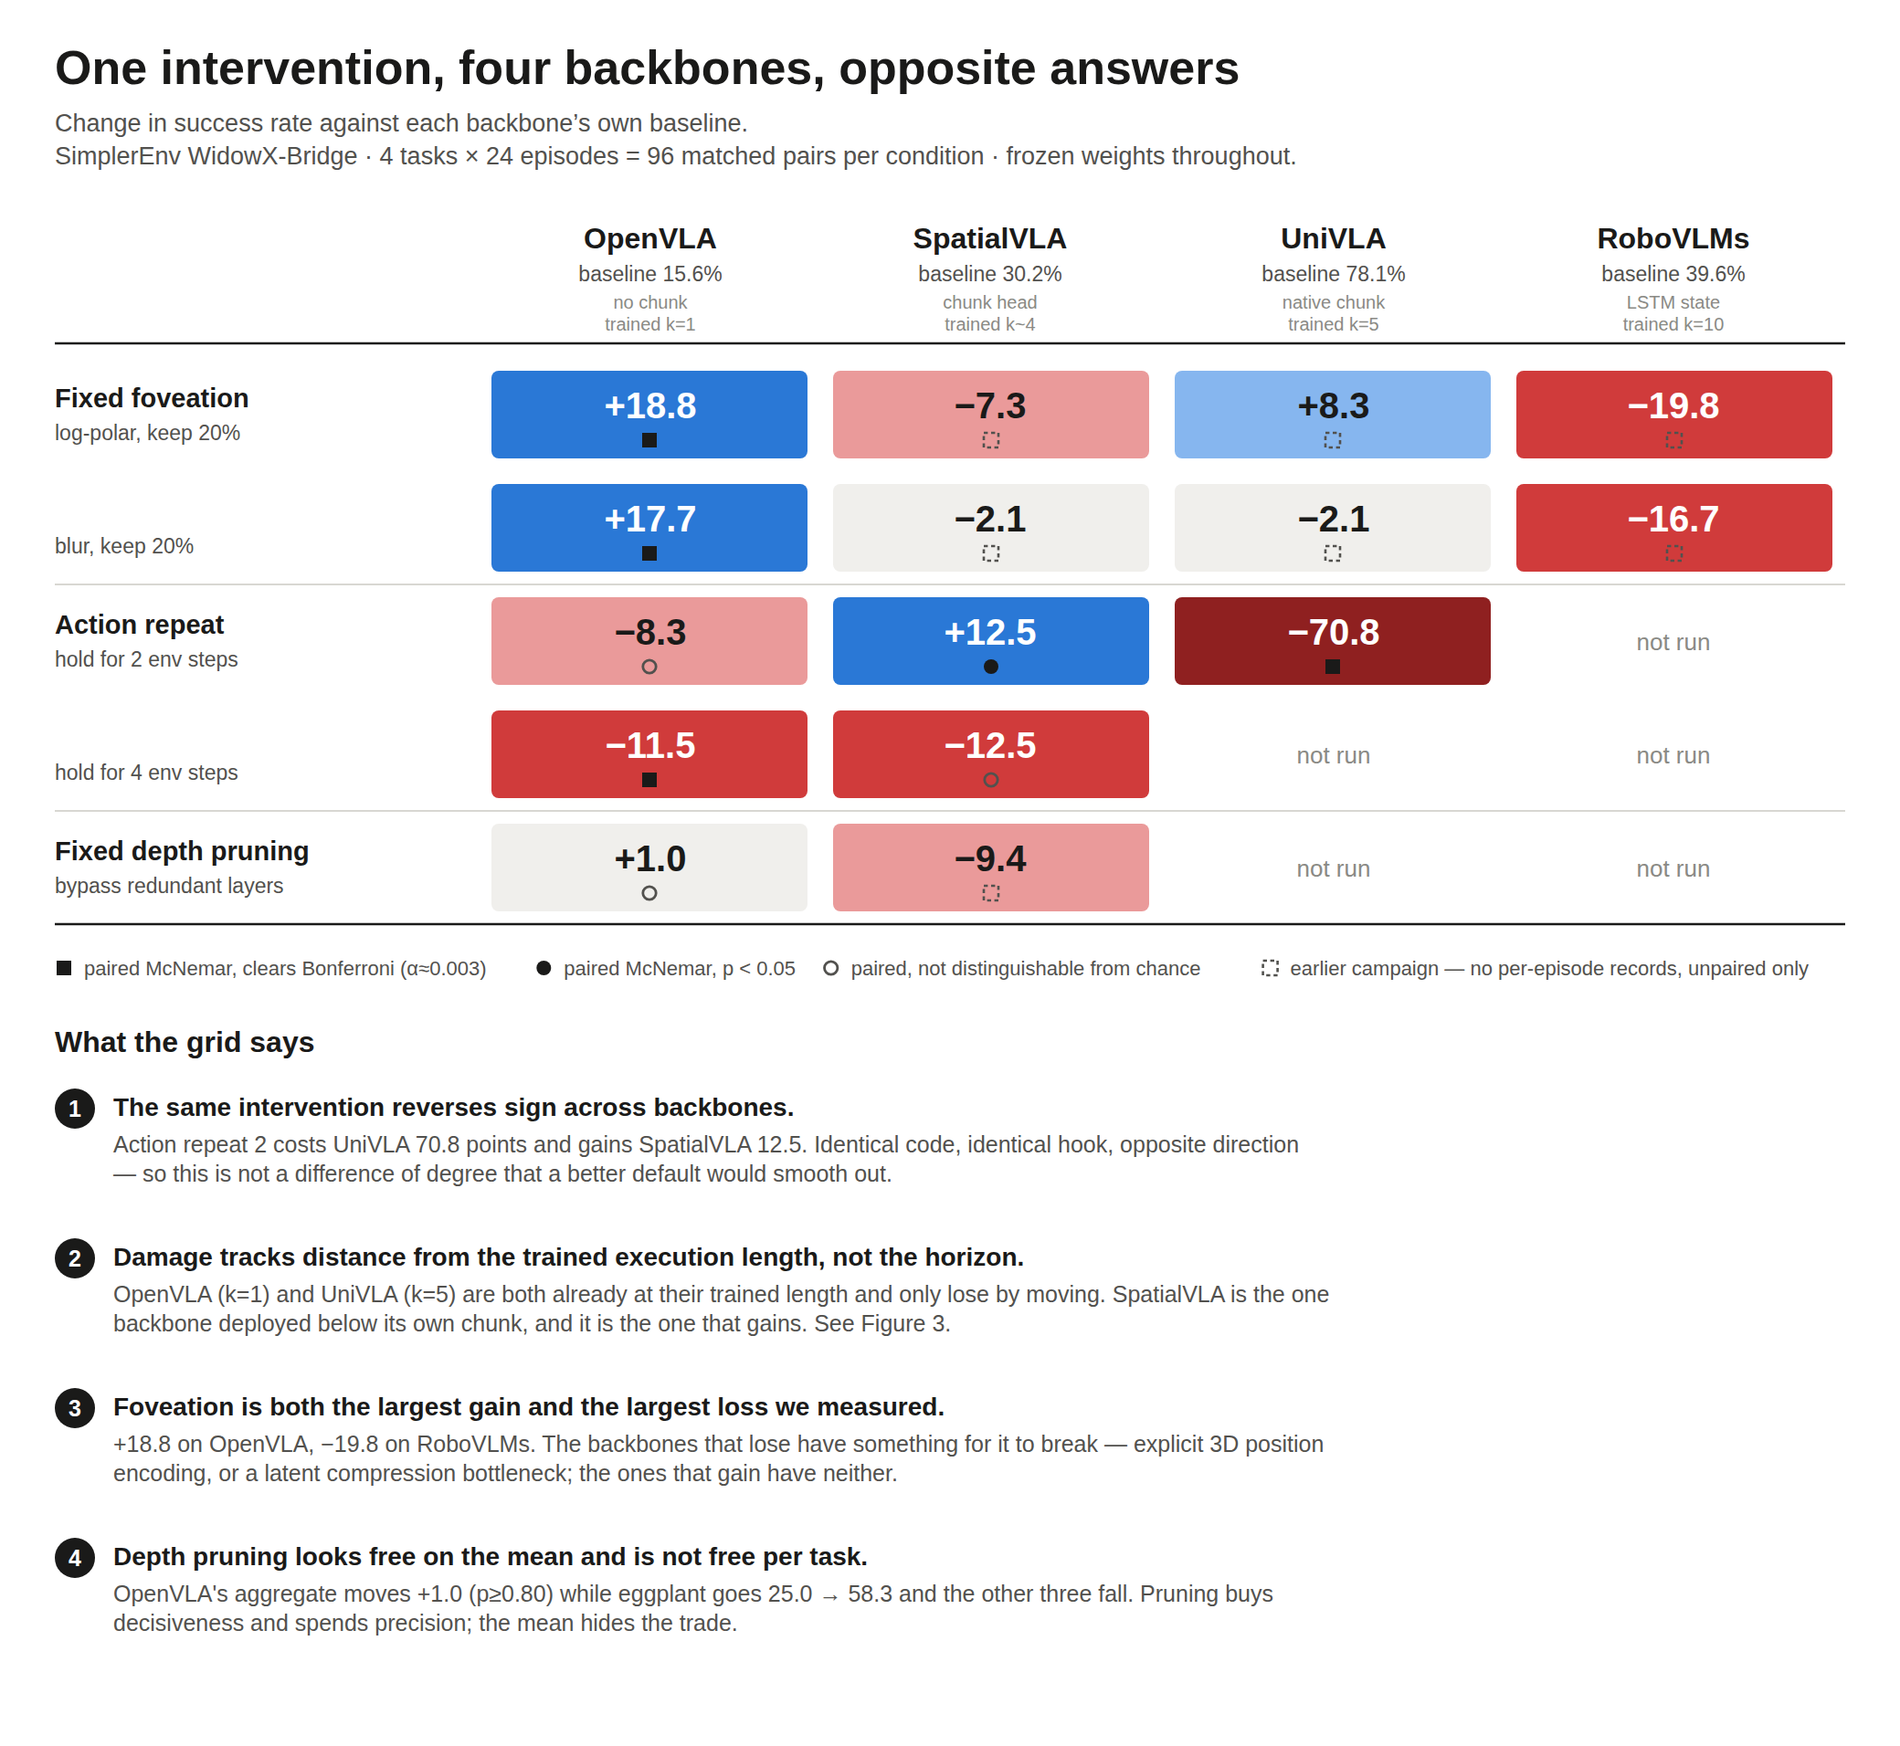
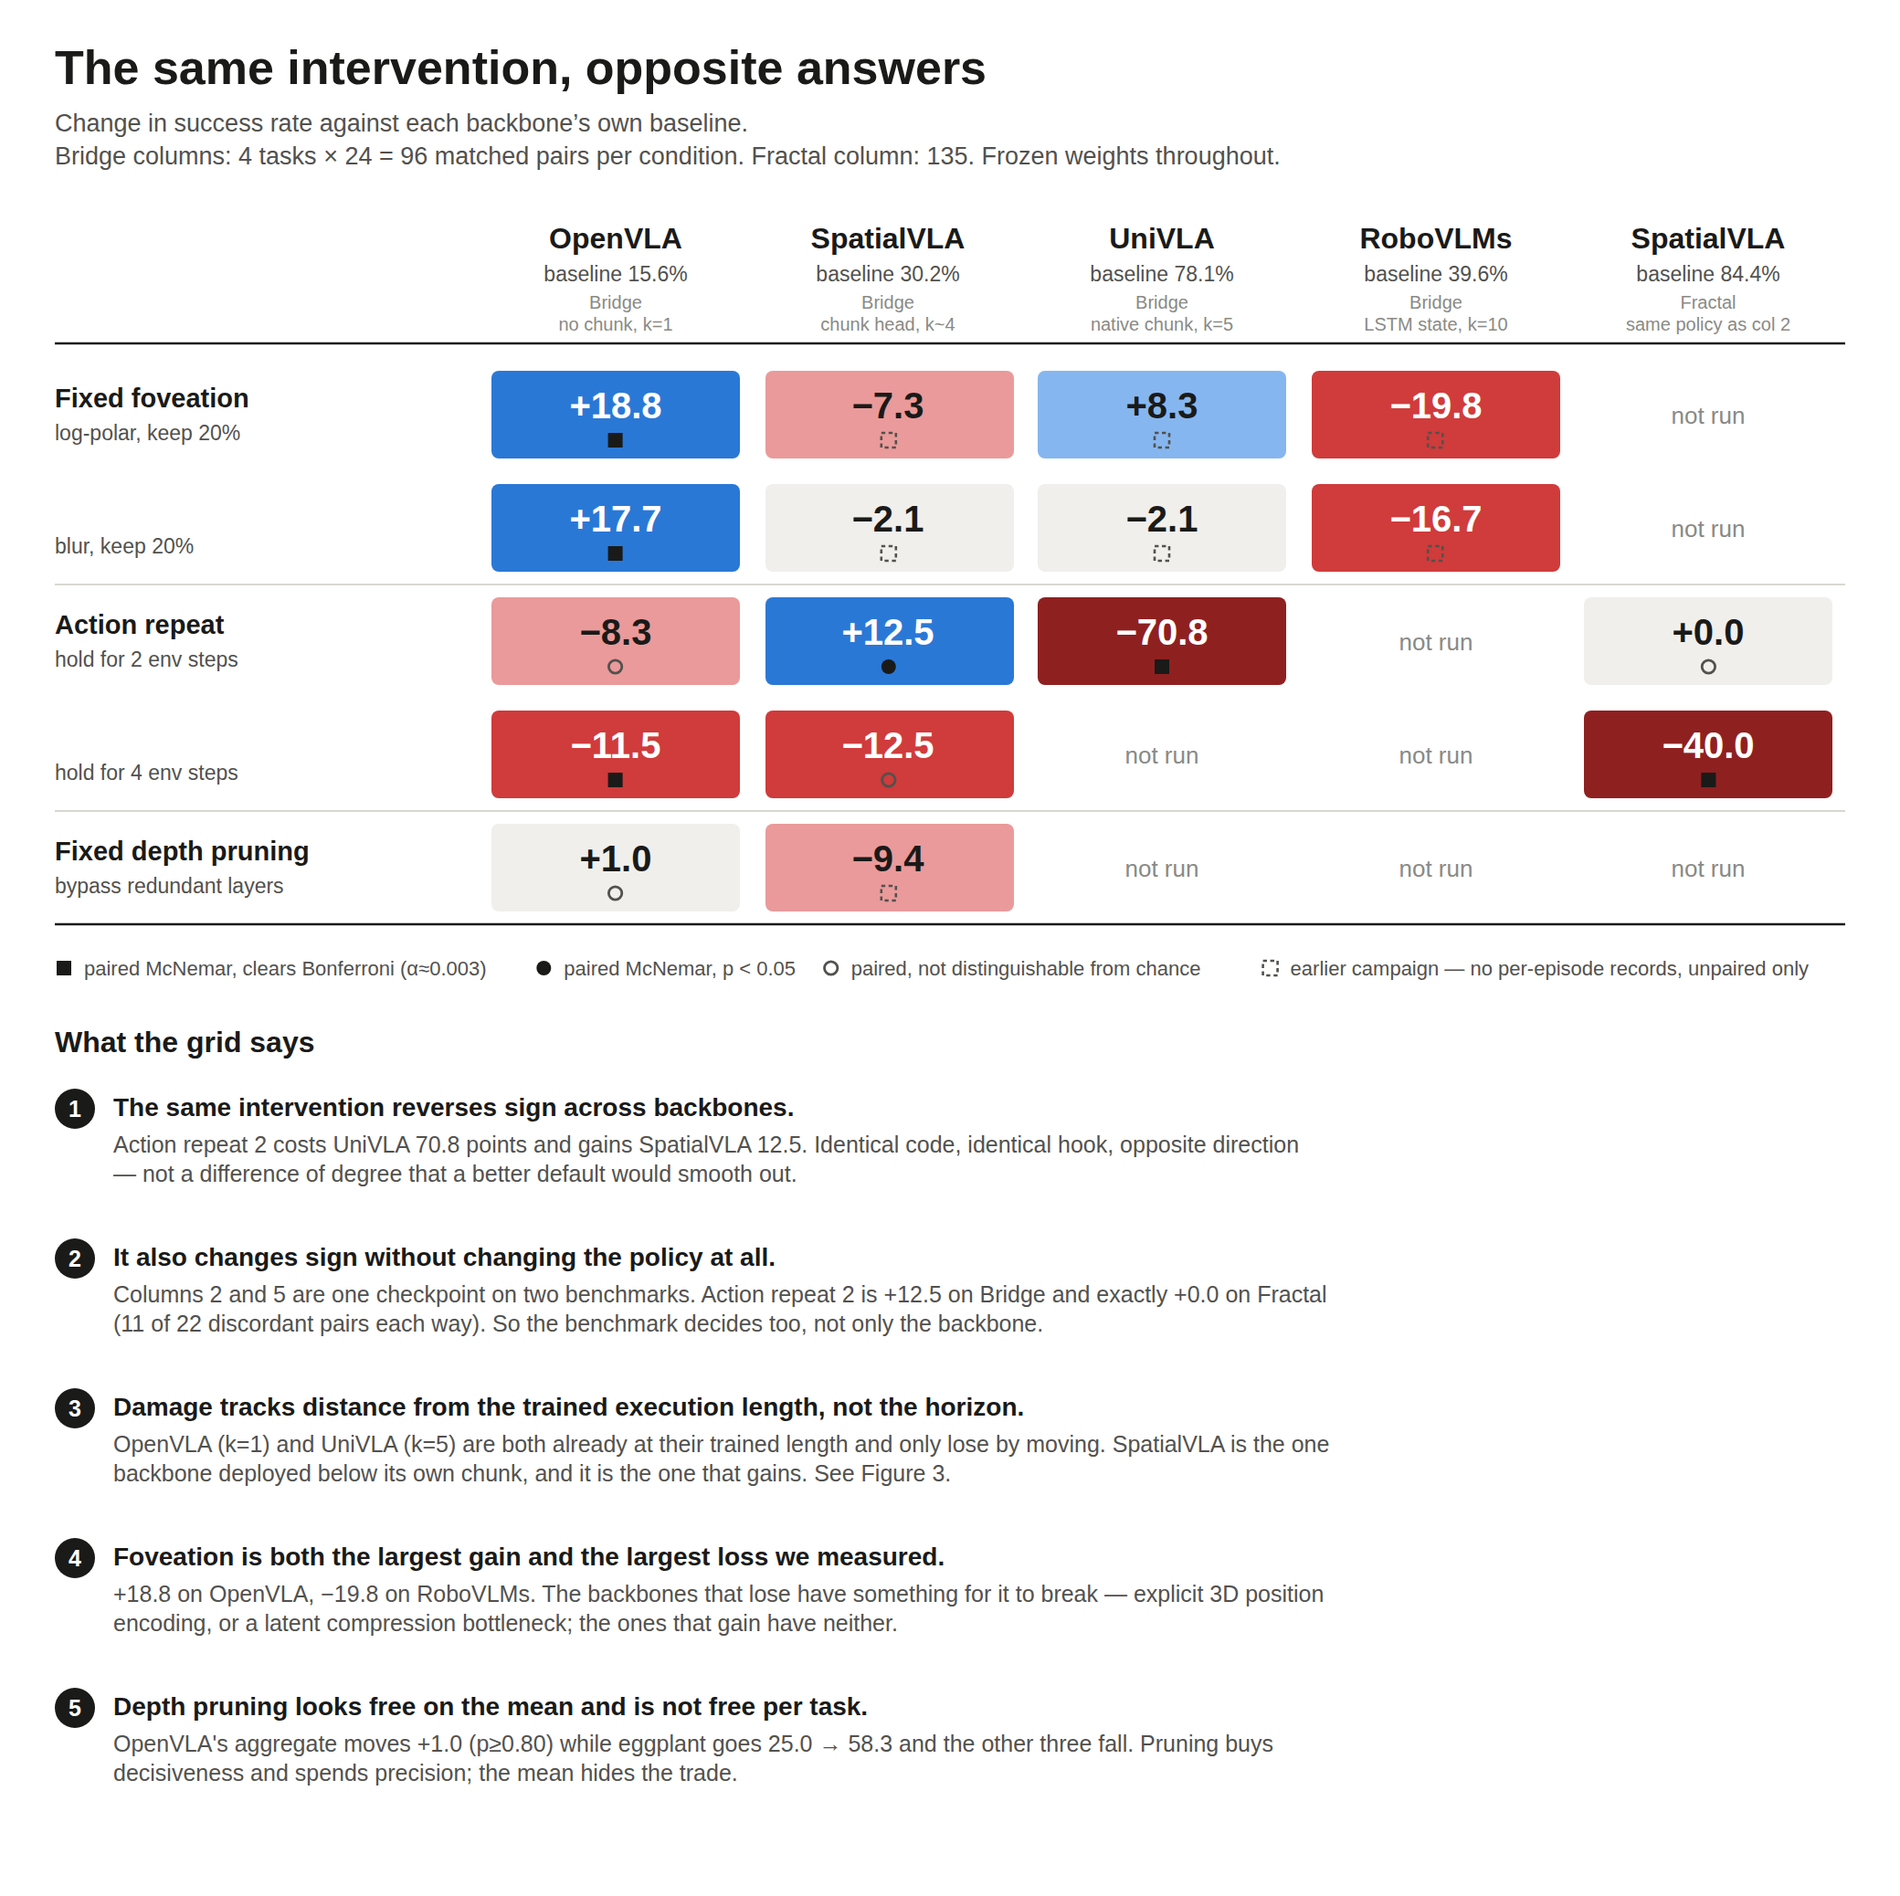
Record the SpatialVLA/Fractal action-repeat result, and retract the orientation claim
Horizon 4 is the strongest number this project has produced. Fractal falls
84.4% -> 44.4%, sixty of sixty-six discordant pairs one way, p=2.7e-12, and all
four tasks clear p<0.05 on their own with the effect between 36 and 48 points.
Bridge fell too. Different robot, different action space, different baseline --
the same horizon is destructive on both.

Horizon 2 is exactly nothing on Fractal: 114/135 both ways, 11 discordant pairs
each direction. On Bridge the identical flag was +12.5. One checkpoint, two
benchmarks, and the sign of the intervention changes -- so the benchmark
decides as much as the backbone does. The writeup says "not detected" rather
than "no effect", because at an 84.4% baseline there are only 15.6 points to
gain and they are all hard episodes.

The orientation hypothesis is dead. Repeat 2 split standing +16 against
horizontal -16 on the same object, which looked like a finding at Fisher
p=0.06. Repeat 4 breaks both identically (10/1 vs 12/2, p=1.00), so the split
was n=25 noise. Recorded as a rejected hypothesis rather than deleted -- it is
the reason for running 4 before writing about 2.

Figure 1 gains the Fractal column and a second numbered finding for it. The two
SpatialVLA columns are the same policy, which is the point of putting them
side by side.

Claude-Session: https://claude.ai/code/session_011USoCwMtkSq1wKhwTPjNT9

Changed region(s): [[0.0312, 0.1234, 0.9688, 0.9566], [0.0312, 0.0309, 0.6875, 0.0926], [0.5938, 0.8023, 0.6875, 0.864]]

diff --git a/experiments/figures/make_result_figures.py b/experiments/figures/make_result_figures.py
@@ -50,35 +50,48 @@ def band(d):
 #       "ns"     paired McNemar, not distinguishable from chance
 #       "legacy" earlier campaign, per-episode records not kept -> unpaired only
 #       None     not run
+# The last column is the SAME backbone as column 2 on a different benchmark.
+# It is in the grid because that comparison is the point: if an intervention's
+# sign can flip without changing the policy at all, no default is safe.
 BACKBONES = [
-    ("OpenVLA", 15.6, "no chunk\ntrained k=1"),
-    ("SpatialVLA", 30.2, "chunk head\ntrained k~4"),
-    ("UniVLA", 78.1, "native chunk\ntrained k=5"),
-    ("RoboVLMs", 39.6, "LSTM state\ntrained k=10"),
+    ("OpenVLA", 15.6, "Bridge\nno chunk, k=1"),
+    ("SpatialVLA", 30.2, "Bridge\nchunk head, k~4"),
+    ("UniVLA", 78.1, "Bridge\nnative chunk, k=5"),
+    ("RoboVLMs", 39.6, "Bridge\nLSTM state, k=10"),
+    ("SpatialVLA", 84.4, "Fractal\nsame policy as col 2"),
 ]
 ROWS = [
     ("Fixed foveation", "log-polar, keep 20%", {
         "OpenVLA": (+18.8, "bonf"), "SpatialVLA": (-7.3, "legacy"),
-        "UniVLA": (+8.3, "legacy"), "RoboVLMs": (-19.8, "legacy")}),
+        "UniVLA": (+8.3, "legacy"), "RoboVLMs": (-19.8, "legacy"),
+        "SpatialVLA/Fractal": (None, None)}),
     ("Fixed foveation", "blur, keep 20%", {
         "OpenVLA": (+17.7, "bonf"), "SpatialVLA": (-2.1, "legacy"),
-        "UniVLA": (-2.1, "legacy"), "RoboVLMs": (-16.7, "legacy")}),
+        "UniVLA": (-2.1, "legacy"), "RoboVLMs": (-16.7, "legacy"),
+        "SpatialVLA/Fractal": (None, None)}),
     ("Action repeat", "hold for 2 env steps", {
         "OpenVLA": (-8.3, "ns"), "SpatialVLA": (+12.5, "p05"),
-        "UniVLA": (-70.8, "bonf"), "RoboVLMs": (None, None)}),
+        "UniVLA": (-70.8, "bonf"), "RoboVLMs": (None, None),
+        "SpatialVLA/Fractal": (+0.0, "ns")}),
     ("Action repeat", "hold for 4 env steps", {
         "OpenVLA": (-11.5, "bonf"), "SpatialVLA": (-12.5, "ns"),
-        "UniVLA": (None, None), "RoboVLMs": (None, None)}),
+        "UniVLA": (None, None), "RoboVLMs": (None, None),
+        "SpatialVLA/Fractal": (-40.0, "bonf")}),
     ("Fixed depth pruning", "bypass redundant layers", {
         "OpenVLA": (+1.0, "ns"), "SpatialVLA": (-9.4, "legacy"),
-        "UniVLA": (None, None), "RoboVLMs": (None, None)}),
+        "UniVLA": (None, None), "RoboVLMs": (None, None),
+        "SpatialVLA/Fractal": (None, None)}),
 ]
 
 FINDINGS = [
     ("The same intervention reverses sign across backbones.",
      "Action repeat 2 costs UniVLA 70.8 points and gains SpatialVLA 12.5. "
-     "Identical code, identical hook, opposite direction — so this is not a "
-     "difference of degree that a better default would smooth out."),
+     "Identical code, identical hook, opposite direction — not a difference of "
+     "degree that a better default would smooth out."),
+    ("It also changes sign without changing the policy at all.",
+     "Columns 2 and 5 are one checkpoint on two benchmarks. Action repeat "
+     "2 is +12.5 on Bridge and exactly +0.0 on Fractal (11 of 22 discordant "
+     "pairs each way). So the benchmark decides too, not only the backbone."),
     ("Damage tracks distance from the trained execution length, not the horizon.",
      "OpenVLA (k=1) and UniVLA (k=5) are both already at their trained length and "
      "only lose by moving. SpatialVLA is the one backbone deployed below its own "
@@ -136,12 +149,12 @@ def figure1():
          f'width="{W}" height="{H}" font-family="Helvetica Neue, Arial, sans-serif">',
          f'<rect width="{W}" height="{H}" fill="{SURF}"/>',
          f'<text x="{LX}" y="46" font-size="26" font-weight="600" fill="{INK}">'
-         f'One intervention, four backbones, opposite answers</text>',
+         f'The same intervention, opposite answers</text>',
          f'<text x="{LX}" y="72" font-size="13.5" fill="{MUT}">'
          f'Change in success rate against each backbone’s own baseline.</text>',
          f'<text x="{LX}" y="90" font-size="13.5" fill="{MUT}">'
-         f'SimplerEnv WidowX-Bridge · 4 tasks × 24 episodes = 96 matched pairs '
-         f'per condition · frozen weights throughout.</text>']
+         f'Bridge columns: 4 tasks × 24 = 96 matched pairs per condition. '
+         f'Fractal column: 135. Frozen weights throughout.</text>']
 
     # column headers
     for i, (name, base, arch) in enumerate(BACKBONES):
@@ -170,8 +183,10 @@ def figure1():
                  f'{esc(detail)}</text>')
         prev = group
 
-        for i, (name, _, _) in enumerate(BACKBONES):
-            d, tier = cells[name]
+        for i, (name, _, note) in enumerate(BACKBONES):
+            # Two columns share the name "SpatialVLA"; the benchmark disambiguates.
+            key = f"{name}/{note.split(chr(10))[0]}" if name == "SpatialVLA" and i > 1 else name
+            d, tier = cells[key]
             x = LX + LW + CW * i
             if d is None:
                 o.append(f'<text x="{x+CW/2:.0f}" y="{ry+RH/2+5:.0f}" font-size="13" '

diff --git a/experiments/SpatialVLA_Fractal_0806.md b/experiments/SpatialVLA_Fractal_0806.md
@@ -115,29 +115,105 @@ x=-0.120   .       .      .      .      .
 차이는 결정적이지 않다) 레퍼런스 프로토콜이 v0이기 때문이다. v1 결과는
 `results/spatialvla_fractal_0806/baseline_movenear_v1/`에 남겨둔다.
 
-## 천장 효과 — 미리 알고 있어야 할 것
+## action repeat 결과
 
-baseline이 84.4%다. Bridge는 30.2%였다.
+135 짝지은 에피소드(coke can 3종 × 25 + move_near_v0 × 60), 세 조건 모두 같은
+env·같은 시드·같은 에피소드 id.
 
-| | Bridge | Fractal |
+| horizon | 성공 | Δ | 불일치쌍 (개선/파괴) | 짝지은 p |
+|---|---|---|---|---|
+| 1 (baseline) | 114/135 = **84.4%** | — | — | — |
+| 2 | 114/135 = **84.4%** | **+0.0** | 22 (11 / 11) | **1.0000** |
+| 4 | 60/135 = **44.4%** | **−40.0** | 66 (6 / 60) | **2.7 × 10⁻¹²** |
+| 2 → 4 | | −40.0 | 70 (8 / 62) | 1.8 × 10⁻¹¹ |
+
+ms/infer는 세 조건 모두 892–907로 동일하다. 개입은 호출당 비용을 건드리지
+않는다 — 이득이든 손해든 전부 호출 횟수에서 온다.
+
+### repeat 2 — 정확히 0
+
+불일치쌍 22개가 **11 대 11**로 갈렸다. 이보다 깨끗한 귀무 결과는 나오기 어렵다.
+
+Bridge에서 같은 플래그가 **+12.5(p=0.043)** 였다. 같은 백본, 같은 코드, 같은
+hook, 벤치마크만 다르다. **개입 효과는 아키텍처뿐 아니라 벤치마크에도
+의존한다** — 한 백본 안에서도.
+
+다만 이 0.0은 두 가지를 구분하지 못한다: 진짜 효과가 없는 것과, baseline
+84.4%에서 잴 여지가 없는 것. 올라갈 여지가 15.6포인트뿐이고 그것도 전부
+어려운 에피소드다. **"효과 없음"이 아니라 "검출 안 됨"으로 써야 한다.**
+
+### repeat 4 — 네 태스크 전부, 같은 방향, 전부 유의
+
+| task | baseline | repeat 4 | Δ | 불일치쌍 | p |
+|---|---|---|---|---|---|
+| pick_vertical_coke_can | 88.0% | 40.0% | **−48.0** | 12 (0 / 12) | **0.0005** |
+| pick_horizontal_coke_can | 84.0% | 44.0% | **−40.0** | 14 (2 / 12) | **0.0129** |
+| move_near_v0 | 83.3% | 45.0% | **−38.3** | 29 (3 / 26) | **1.5 × 10⁻⁵** |
+| pick_standing_coke_can | 84.0% | 48.0% | **−36.0** | 11 (1 / 10) | **0.0117** |
+| **전체** | **84.4%** | **44.4%** | **−40.0** | 66 (6 / 60) | **2.7 × 10⁻¹²** |
+
+**4/4 태스크가 개별로도 p<0.05를 넘고, 크기가 36–48포인트로 좁게 모여 있다.**
+전체 검정은 Bonferroni(α≈0.003)를 열 자릿수 여유로 통과한다. 이 캠페인에서
+가장 단단한 숫자다.
+
+평균 스텝도 함께 늘어난다(30 → 42 → 57, horizontal 기준). Bridge에서 본 것과
+같은 시그니처 — 실패가 "빨리 포기"가 아니라 **"끝내지 못하고 한도까지 헤맴"**
+이다.
+
+### 기각한 가설 — 물체 자세
+
+repeat 2에서 standing이 84.0 → 100.0(+16), horizontal이 84.0 → 68.0(−16)으로
+갈렸다. 같은 물체, 자세만 다른데 부호가 반대라 자세 의존성을 의심했다.
+
+**repeat 4가 이를 기각한다.**
+
+| | standing 파괴/개선 | horizontal 파괴/개선 | Fisher p |
+|---|---|---|---|
+| repeat 2 | 0 / 4 | 6 / 2 | 0.0606 |
+| **repeat 4** | **10 / 1** | **12 / 2** | **1.0000** |
+
+horizon을 하나 더 올리자 두 자세가 **구별할 수 없게** 무너진다. repeat 2의
+±16은 태스크당 n=25에서의 잡음으로 읽는 것이 맞다. 자세 가설은 접는다.
+
+이것이 repeat 4를 먼저 돌린 값어치다 — repeat 2만 보고 논문에 "자세에 따라
+부호가 갈린다"를 썼다면, 재현되지 않는 주장을 실을 뻔했다.
+
+## Bridge와 나란히
+
+| horizon | Bridge (96 ep) | Fractal (135 ep) |
 |---|---|---|
-| baseline | 30.2% | 84.4% |
-| 올라갈 여지 | +69.8 | **+15.6** |
-| 내려갈 여지 | −30.2 | −84.4 |
+| 1 | 30.2% | 84.4% |
+| 2 | **42.7%** (+12.5, p=0.043) | 84.4% (**+0.0**, p=1.00) |
+| 4 | 17.7% (−12.5, p=0.050) | **44.4%** (**−40.0, p=2.7e-12**) |
 
-**이득은 거의 못 재고 손해는 아주 잘 잰다.** Bridge에서 repeat 2가 +12.5를
-냈지만, Fractal에서 같은 이득이 안 보여도 그것은 "가설이 틀렸다"가 아니라
-"잴 수 없었다"다. 논문에서 이 구분을 하지 않으면 스스로 주장을 깎는다.
+**공통점: 4에서 무너진다.** 두 벤치마크, 서로 다른 로봇, 서로 다른 액션 공간,
+서로 다른 baseline(30% vs 84%) — 그런데 horizon 4는 양쪽 모두에서 파괴적이다.
+이것이 이 캠페인의 가장 이전 가능한(transferable) 결론이다.
 
-McNemar는 불일치쌍만 쓰므로 천장 근처에서도 손해 쪽 검정력은 유지된다. 실제로
-Bridge의 repeat 4(−12.5)는 p=0.0501이었고 repeat 2→4(−25.0)는 p=3.9e-5였다.
-**Fractal에서 기대할 수 있는 것은 "repeat 4에서 무너지는가"이지 "repeat 2에서
-오르는가"가 아니다.**
+**차이점: 2에서의 부호.** Bridge는 오르고 Fractal은 평평하다. 두 설명이 가능하고
+지금 데이터로는 못 가른다.
 
-## 다음
+1. **천장.** Fractal baseline이 84.4%라 이득을 잴 여지가 15.6포인트뿐이다.
+2. **태스크 성격.** Bridge의 이득은 spoon(2/24 → 9/24)에 몰려 있었다 — baseline이
+   바닥인 태스크. Fractal에는 그런 태스크가 없다.
 
-- [ ] action repeat 2 / 4를 같은 4 태스크(coke can 3종 + move_near_v0)로 실행.
-      조건당 135 에피소드, ~65분.
-- [ ] 짝지은 검정 후 Bridge 곡선과 대조.
-- [ ] (선택) URDF를 추첨이 아니라 균등 순회하도록 바꿔 공개 수치와의 차이가
-      줄어드는지 확인. 짝지은 비교에는 영향이 없으므로 우선순위는 낮다.
+둘 다 "이득은 baseline이 낮은 곳에서만 나온다"는 같은 방향을 가리킨다. 검증하려면
+Fractal에서 baseline이 낮은 태스크(서랍 계열, 공개 수치 59.3%)가 필요하고,
+그것은 렌더 비용 때문에 이번 범위 밖이다.
+
+## 논문에 쓸 문장
+
+확정으로 쓸 수 있는 것:
+
+- **horizon 4는 SpatialVLA를 두 벤치마크 모두에서 무너뜨린다.** Fractal −40.0
+  (p=2.7e-12, 4/4 태스크 개별 유의), Bridge −12.5.
+- **horizon 2는 벤치마크에 따라 다르다.** Bridge +12.5, Fractal +0.0. 같은 코드,
+  같은 hook, 같은 백본.
+- 지연시간은 세 조건 모두 같다. 속도 이득은 전부 호출 횟수에서 온다.
+
+쓰면 안 되는 것:
+
+- "Fractal에서 action repeat 2는 효과가 없다" — **검출되지 않았을 뿐**이다.
+  천장 효과를 함께 적지 않으면 과잉 주장이다.
+- 물체 자세에 따른 부호 반전 — 기각됐다.
+- 우리 move_near 절대값을 공개 69.6% 옆에 나란히 — 프로토콜이 다르다(위 참조).
